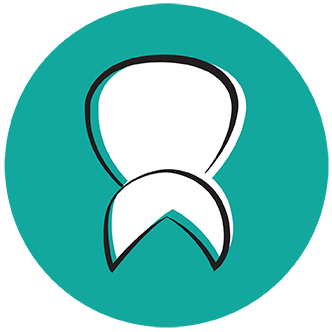
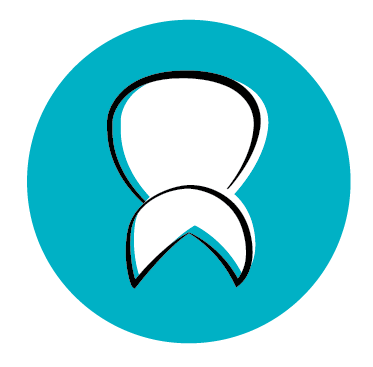
Homepage redesign completed

diff --git a/app/templates/app/index.html b/app/templates/app/index.html
@@ -11,7 +11,7 @@
     <meta name="description" content="">
     <meta name="author" content="">
 
-    <link rel="icon" href="/static/app/content/logo.jpg"/>
+    <link rel="icon" href="/static/app/img/logo.png"/>
 
     <title>Bhangra in the Burgh</title>
 
@@ -79,7 +79,7 @@
             </li>
             <li>
                 <a class="page-scroll" id="logo-container" href="/" class="brand-logo">
-                    <img src="/static/app/img/logo.jpg" class="logo">
+                    <img src="/static/app/img/logo.png" class="logo">
                 </a>
             </li>
             <li>
@@ -156,6 +156,11 @@
             </div>
         </div>
     </section>
+
+    <header class="poster-1">
+
+    </header>
+    <!--
     <aside class="clients">
         <div class="container">
             <div class="row">
@@ -179,7 +184,7 @@
                     </div>
                 </div>
         </div>
-    </aside>
+    </aside> -->
 
     <!-- Portfolio Grid Section 
     <section id="portfolio" class="bg-light-gray">
@@ -424,6 +429,9 @@
         </div>
     </section>
 -->
+    <header class="poster-2">
+
+    </header>
     <!-- Clients Aside -->
     <section id="sponsors" class="sponsors bg-light-gray">
         <div class="container">
@@ -529,9 +537,6 @@
                         </li>
                     </ul>
                 </div>
-                <div class="col-md-4">
-                    <img src="/static/app/img/logo.jpg" height="55" width="45">
-                </div>
             </div>
         </div>
     </footer>
@@ -540,92 +545,6 @@
     <!-- Use the modals below to showcase details about your portfolio projects! -->
 
     <!-- Portfolio Modal 1 -->
-    <div class="portfolio-modal modal fade" id="portfolioModal1" tabindex="-1" role="dialog" aria-hidden="true">
-        <div class="modal-content">
-            <div class="close-modal" data-dismiss="modal">
-                <div class="lr">
-                    <div class="rl">
-                    </div>
-                </div>
-            </div>
-            <div class="container">
-                <div class="row">
-                    <div class="col-lg-8 col-lg-offset-2">
-                        <div class="modal-body">
-                            <!-- Project Details Go Here -->
-                            <h2>Project Name</h2>
-                            <p class="item-intro text-muted">Lorem ipsum dolor sit amet consectetur.</p>
-                            <img class="img-responsive img-centered" src="/static/app/img/portfolio/roundicons-free.png" alt="">
-                            <p>Use this area to describe your project. Lorem ipsum dolor sit amet, consectetur adipisicing elit. Est blanditiis dolorem culpa incidunt minus dignissimos deserunt repellat aperiam quasi sunt officia expedita beatae cupiditate, maiores repudiandae, nostrum, reiciendis facere nemo!</p>
-                            <p>
-                                <strong>Want these icons in this portfolio item sample?</strong>You can download 60 of them for free, courtesy of <a href="https://getdpd.com/cart/hoplink/18076?referrer=bvbo4kax5k8ogc">RoundIcons.com</a>, or you can purchase the 1500 icon set <a href="https://getdpd.com/cart/hoplink/18076?referrer=bvbo4kax5k8ogc">here</a>.</p>
-                            <ul class="list-inline">
-                                <li>Date: July 2014</li>
-                                <li>Client: Round Icons</li>
-                                <li>Category: Graphic Design</li>
-                            </ul>
-                            <button type="button" class="btn btn-primary" data-dismiss="modal"><i class="fa fa-times"></i> Close Project</button>
-                        </div>
-                    </div>
-                </div>
-            </div>
-        </div>
-    </div>
-
-    <!-- Portfolio Modal 2 -->
-    <div class="portfolio-modal modal fade" id="portfolioModal2" tabindex="-1" role="dialog" aria-hidden="true">
-        <div class="modal-content">
-            <div class="close-modal" data-dismiss="modal">
-                <div class="lr">
-                    <div class="rl">
-                    </div>
-                </div>
-            </div>
-            <div class="container">
-                <div class="row">
-                    <div class="col-lg-8 col-lg-offset-2">
-                        <div class="modal-body">
-                            <h2>Project Heading</h2>
-                            <p class="item-intro text-muted">Lorem ipsum dolor sit amet consectetur.</p>
-                            <img class="img-responsive img-centered" src="/static/app/img/portfolio/startup-framework-preview.png" alt="">
-                            <p><a href="http://designmodo.com/startup/?u=787">Startup Framework</a> is a website builder for professionals. Startup Framework contains components and complex blocks (PSD+HTML Bootstrap themes and templates) which can easily be integrated into almost any design. All of these components are made in the same style, and can easily be integrated into projects, allowing you to create hundreds of solutions for your future projects.</p>
-                            <p>You can preview Startup Framework <a href="http://designmodo.com/startup/?u=787">here</a>.</p>
-                            <button type="button" class="btn btn-primary" data-dismiss="modal"><i class="fa fa-times"></i> Close Project</button>
-                        </div>
-                    </div>
-                </div>
-            </div>
-        </div>
-    </div>
-
-    <!-- Portfolio Modal 3 -->
-    <div class="portfolio-modal modal fade" id="portfolioModal3" tabindex="-1" role="dialog" aria-hidden="true">
-        <div class="modal-content">
-            <div class="close-modal" data-dismiss="modal">
-                <div class="lr">
-                    <div class="rl">
-                    </div>
-                </div>
-            </div>
-            <div class="container">
-                <div class="row">
-                    <div class="col-lg-8 col-lg-offset-2">
-                        <div class="modal-body">
-                            <!-- Project Details Go Here -->
-                            <h2>Project Name</h2>
-                            <p class="item-intro text-muted">Lorem ipsum dolor sit amet consectetur.</p>
-                            <img class="img-responsive img-centered" src="/static/app/img/portfolio/treehouse-preview.png" alt="">
-                            <p>Treehouse is a free PSD web template built by <a href="https://www.behance.net/MathavanJaya">Mathavan Jaya</a>. This is bright and spacious design perfect for people or startup companies looking to showcase their apps or other projects.</p>
-                            <p>You can download the PSD template in this portfolio sample item at <a href="http://freebiesxpress.com/gallery/treehouse-free-psd-web-template/">FreebiesXpress.com</a>.</p>
-                            <button type="button" class="btn btn-primary" data-dismiss="modal"><i class="fa fa-times"></i> Close Project</button>
-                        </div>
-                    </div>
-                </div>
-            </div>
-        </div>
-    </div>
-
-    <!-- Portfolio Modal 4 -->
     <div class="portfolio-modal modal fade" id="portfolioModal4" tabindex="-1" role="dialog" aria-hidden="true">
         <div class="modal-content">
             <div class="close-modal" data-dismiss="modal">
@@ -644,60 +563,6 @@
                             <img class="img-responsive img-centered" src="/static/app/img/portfolio/golden-preview.png" alt="">
                             <p>Start Bootstrap's Agency theme is based on Golden, a free PSD website template built by <a href="https://www.behance.net/MathavanJaya">Mathavan Jaya</a>. Golden is a modern and clean one page web template that was made exclusively for Best PSD Freebies. This template has a great portfolio, timeline, and meet your team sections that can be easily modified to fit your needs.</p>
                             <p>You can download the PSD template in this portfolio sample item at <a href="http://freebiesxpress.com/gallery/golden-free-one-page-web-template/">FreebiesXpress.com</a>.</p>
-                            <button type="button" class="btn btn-primary" data-dismiss="modal"><i class="fa fa-times"></i> Close Project</button>
-                        </div>
-                    </div>
-                </div>
-            </div>
-        </div>
-    </div>
-
-    <!-- Portfolio Modal 5 -->
-    <div class="portfolio-modal modal fade" id="portfolioModal5" tabindex="-1" role="dialog" aria-hidden="true">
-        <div class="modal-content">
-            <div class="close-modal" data-dismiss="modal">
-                <div class="lr">
-                    <div class="rl">
-                    </div>
-                </div>
-            </div>
-            <div class="container">
-                <div class="row">
-                    <div class="col-lg-8 col-lg-offset-2">
-                        <div class="modal-body">
-                            <!-- Project Details Go Here -->
-                            <h2>Project Name</h2>
-                            <p class="item-intro text-muted">Lorem ipsum dolor sit amet consectetur.</p>
-                            <img class="img-responsive img-centered" src="/static/app/img/portfolio/escape-preview.png" alt="">
-                            <p>Escape is a free PSD web template built by <a href="https://www.behance.net/MathavanJaya">Mathavan Jaya</a>. Escape is a one page web template that was designed with agencies in mind. This template is ideal for those looking for a simple one page solution to describe your business and offer your services.</p>
-                            <p>You can download the PSD template in this portfolio sample item at <a href="http://freebiesxpress.com/gallery/escape-one-page-psd-web-template/">FreebiesXpress.com</a>.</p>
-                            <button type="button" class="btn btn-primary" data-dismiss="modal"><i class="fa fa-times"></i> Close Project</button>
-                        </div>
-                    </div>
-                </div>
-            </div>
-        </div>
-    </div>
-
-    <!-- Portfolio Modal 6 -->
-    <div class="portfolio-modal modal fade" id="portfolioModal6" tabindex="-1" role="dialog" aria-hidden="true">
-        <div class="modal-content">
-            <div class="close-modal" data-dismiss="modal">
-                <div class="lr">
-                    <div class="rl">
-                    </div>
-                </div>
-            </div>
-            <div class="container">
-                <div class="row">
-                    <div class="col-lg-8 col-lg-offset-2">
-                        <div class="modal-body">
-                            <!-- Project Details Go Here -->
-                            <h2>Project Name</h2>
-                            <p class="item-intro text-muted">Lorem ipsum dolor sit amet consectetur.</p>
-                            <img class="img-responsive img-centered" src="/static/app/img/portfolio/dreams-preview.png" alt="">
-                            <p>Dreams is a free PSD web template built by <a href="https://www.behance.net/MathavanJaya">Mathavan Jaya</a>. Dreams is a modern one page web template designed for almost any purpose. It’s a beautiful template that’s designed with the Bootstrap framework in mind.</p>
-                            <p>You can download the PSD template in this portfolio sample item at <a href="http://freebiesxpress.com/gallery/dreams-free-one-page-web-template/">FreebiesXpress.com</a>.</p>
                             <button type="button" class="btn btn-primary" data-dismiss="modal"><i class="fa fa-times"></i> Close Project</button>
                         </div>
                     </div>

diff --git a/app/templates/app/teams.html b/app/templates/app/teams.html
@@ -55,38 +55,34 @@
                     <span class="icon-bar"></span>
                     <span class="icon-bar"></span>
                 </button>
-                <a class="navbar-brand page-scroll" id="logo-container" href="/" class="brand-logo">
-                    <img src="/static/app/img/logo.jpg" height="65" width="50">
-
-                </a>
             </div>
             <!-- Collect the nav links, forms, and other content for toggling -->
             <div class="collapse navbar-collapse" id="bs-example-navbar-collapse-1">
                 <ul class="nav navbar-nav navbar-right">
-                    <li class="hidden">
-                        <a href="#page-top"></a>
-                    </li>
                     <li>
-                        <a class="" href="/#services">About Us</a>
-                    </li>
-                    <li>
-                        <a class="" href="/#history">History</a>
-                    </li>
-                    <li>
-                        <a class="" href="/#sponsors">Sponsors</a>
-                    </li>
-                    <li>
-                        <a class="" href="/#contact">Contact</a>
-                    </li>
-                    <li>
-                        <a class="" href="/teams.html">Teams</a>
-                    </li>
-                    <li>
-                        <a class="" href="/tickets.html">Tickets</a>
-                    </li>
-                    <li>
-                        <a class="" href="/board.html">The Board</a>
-                    </li>
+                <a class="page-scroll black-font" href="/">Home</a>
+            </li>
+            <li>
+                <a class="page-scroll" href="/#services">About Us</a>
+            </li>
+            <li>
+                <a class="page-scroll" href="/#history">History</a>
+            </li>
+            <li>
+                <a class="page-scroll" href="/#sponsors">Sponsors</a>
+            </li>
+            <li>
+                <a class="page-scroll" href="/#contact">Contact</a>
+            </li>
+            <li>
+                <a class="" href="/teams.html">Teams</a>
+            </li>
+            <li>
+                <a class="" href="/tickets.html">Tickets</a>
+            </li>
+            <li>
+                <a class="" href="/board.html">The Board</a>
+            </li>
                 </ul>
             </div>
             <!-- /.navbar-collapse -->
@@ -334,6 +330,17 @@
     <script src="/static/app/js/wow.min.js"></script>
     <script>
         new WOW().init();
+       $('.page-scroll').addClass('shrink');
+                $('.navbar-default .nav li a').css('margin','9px');
+                $('.navbar-default .nav li a').css('color','#fff');
+
+                $(".navbar-default .nav li a").mouseenter(function() {
+                    $(this).css("color", "#808080");
+                }).mouseleave(function() {
+                    $(this).css("color", "#fff");
+                });
+                $('.navbar .navbar-nav').css('margin-top','0%')
+                $('.navbar .navbar-nav').css('margin-bottom','1%') 
     </script>
 
     <!-- Custom Theme JavaScript -->

diff --git a/app/static/app/css/style.css b/app/static/app/css/style.css
@@ -254,14 +254,14 @@ fieldset[disabled] .btn-xl.active {
 
 .navbar-default .navbar-nav>.active>a {
     border-radius: 0;
-    color: #fff;
-    background-color: #b1ca35;
+    color: #000 !important ;
+    background-color: #f9ec00;
 }
 
 .navbar-default .navbar-nav>.active>a:hover,
 .navbar-default .navbar-nav>.active>a:focus {
     color: #fff;
-    background-color: #b1ca35;
+    background-color: #f9ec00;
 }
 
 .adjusted {
@@ -465,6 +465,43 @@ section h3.section-subheading {
     margin: 15px 0;
     text-transform: none;
 
+}
+
+.fullscreen {
+    text-align: center;
+    color: #fff;
+    height: 100%;
+    background-image: url(/static/app/img/homepageimage.jpg);
+    background-position: center center;
+    background-repeat: none;
+    -webkit-background-size: cover;
+    -moz-background-size: cover;
+    background-size: cover;
+    -o-background-size: cover;
+    background-attachment: fixed;
+
+}
+
+.poster-1{
+  height: 80vh;
+  background-position: center center;
+    background-repeat: none;
+    -webkit-background-size: cover;
+    -moz-background-size: cover;
+    background-size: cover;
+    -o-background-size: cover;
+  background-image: url(/static/app/img/cmubhangra.jpg);
+}
+
+.poster-2{
+  height: 100vh;
+  background-position: center center;
+    background-repeat: none;
+    -webkit-background-size: cover;
+    -moz-background-size: cover;
+    background-size: cover;
+    -o-background-size: cover;
+  background-image: url(/static/app/img/jumpingdancers.jpg);
 }
 
 #portfolio .portfolio-item {
@@ -882,7 +919,7 @@ section#contact .text-danger {
   color: #b1ca35;
 }
 .failure h5{
-  color: #FF0000;
+  color: #ef4036;
 }
 
 footer {
@@ -927,7 +964,7 @@ ul.social-buttons li a {
 ul.social-buttons li a:hover,
 ul.social-buttons li a:focus,
 ul.social-buttons li a:active {
-    background-color: #fed136;
+    background-color: #f9ec00;
 }
 
 .btn:focus,

diff --git a/app/templates/app/board.html b/app/templates/app/board.html
@@ -64,16 +64,16 @@
                 <a class="page-scroll black-font" href="/">Home</a>
             </li>
             <li>
-                <a class="page-scroll" href="#services">About Us</a>
+                <a class="page-scroll" href="/#services">About Us</a>
             </li>
             <li>
-                <a class="page-scroll" href="#history">History</a>
+                <a class="page-scroll" href="/#history">History</a>
             </li>
             <li>
-                <a class="page-scroll" href="#sponsors">Sponsors</a>
+                <a class="page-scroll" href="/#sponsors">Sponsors</a>
             </li>
             <li>
-                <a class="page-scroll" href="#contact">Contact</a>
+                <a class="page-scroll" href="/#contact">Contact</a>
             </li>
             <li>
                 <a class="" href="/teams.html">Teams</a>
